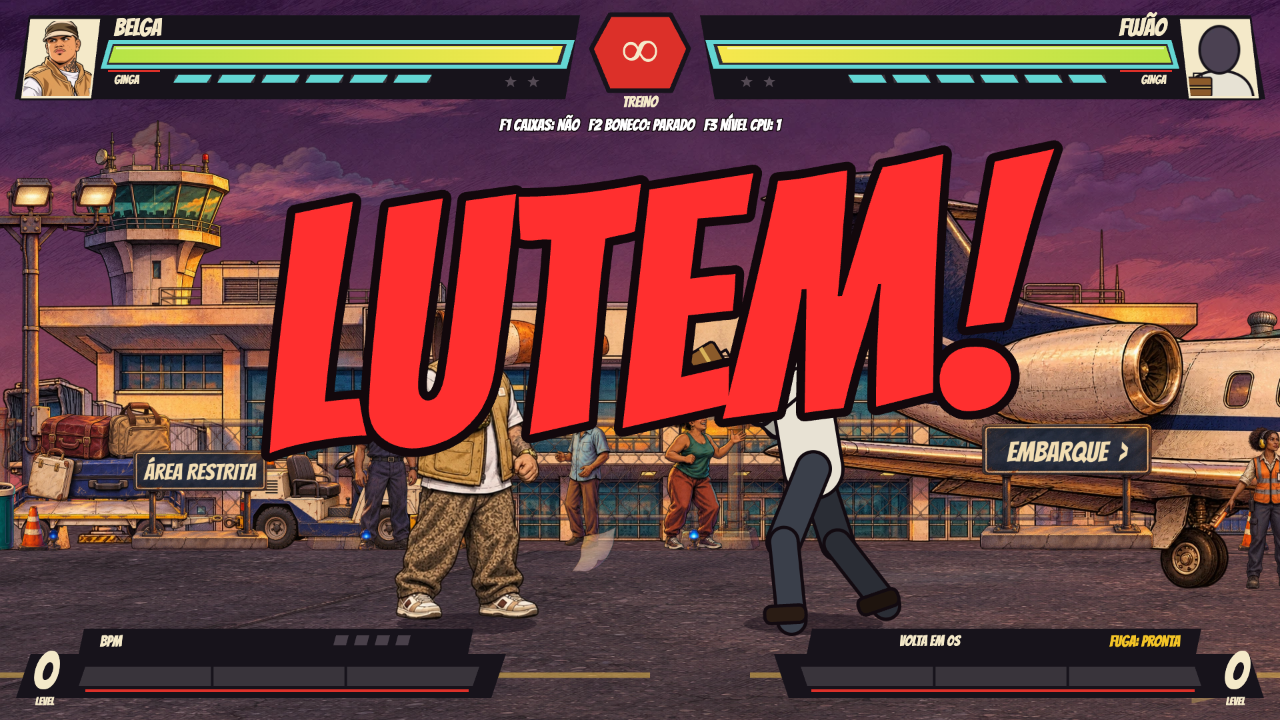
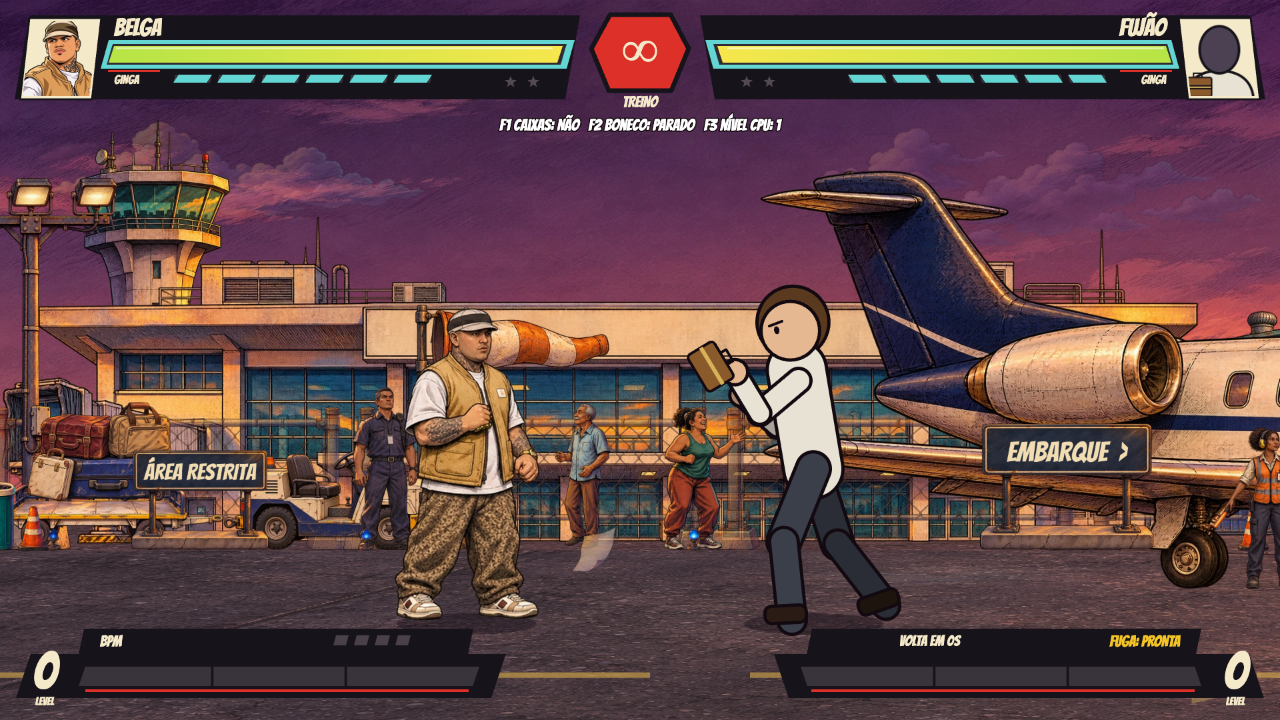
Registra capturas sem FX transitório e validação da integração

Changed region(s): [[0.1875, 0.1833, 0.8438, 0.8556]]

diff --git a/docs/CENARIOS-04-05-INTEGRACAO.md b/docs/CENARIOS-04-05-INTEGRACAO.md
@@ -8,7 +8,7 @@ A build conserva integralmente o índice oficial de 26 pacotes e 722 strips da m
 
 ## Verificação desta integração
 
-- 154 testes locais de regras/renderers/carregamento aprovados, incluindo a regressão do renderer preparado para os dois pisos.
+- 154 testes locais de regras/renderers/carregamento aprovados, incluindo a regressão do renderer preparado para os dois pisos; 32 combos aprovados e 56 partidas de campanha concluídas.
 - Chrome percorreu título → Versus → Belga → Fujão e Pai do Fujão. Ambas as arenas chegaram a `prepared: true`, com 32 e 21 imagens carregadas, respectivamente, e seis buffers de áudio cada.
 - Pausa congelou o core. Câmeras 0/340/680 e viewport emulado de 844×390 foram exercitados sem erros de JavaScript ou HTTP.
 - A revisão artística e de mecânicas anterior de cada entrega continua registrada em `production/qa/aeroporto-review/` e `production/qa/mansao-review/`, com suas bases e limites históricos.
